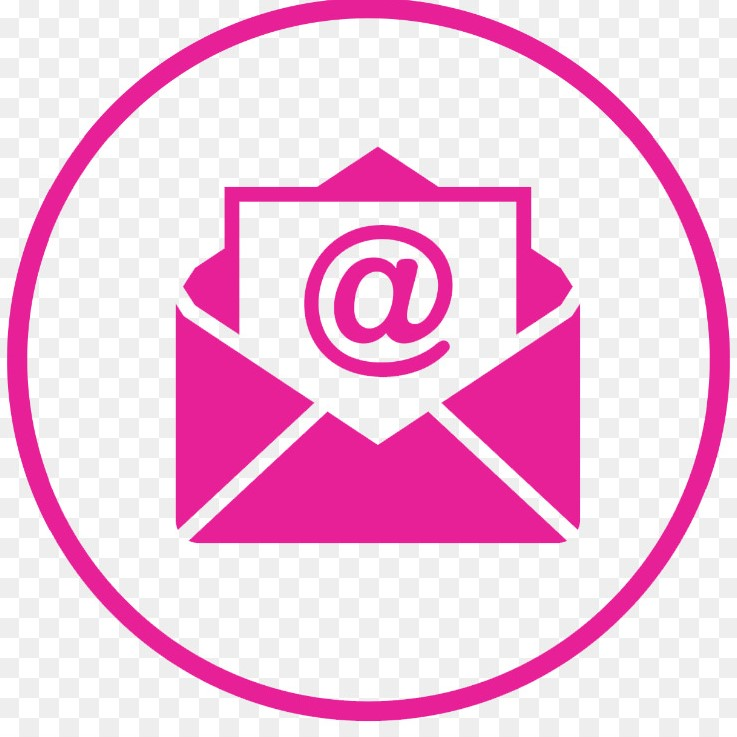
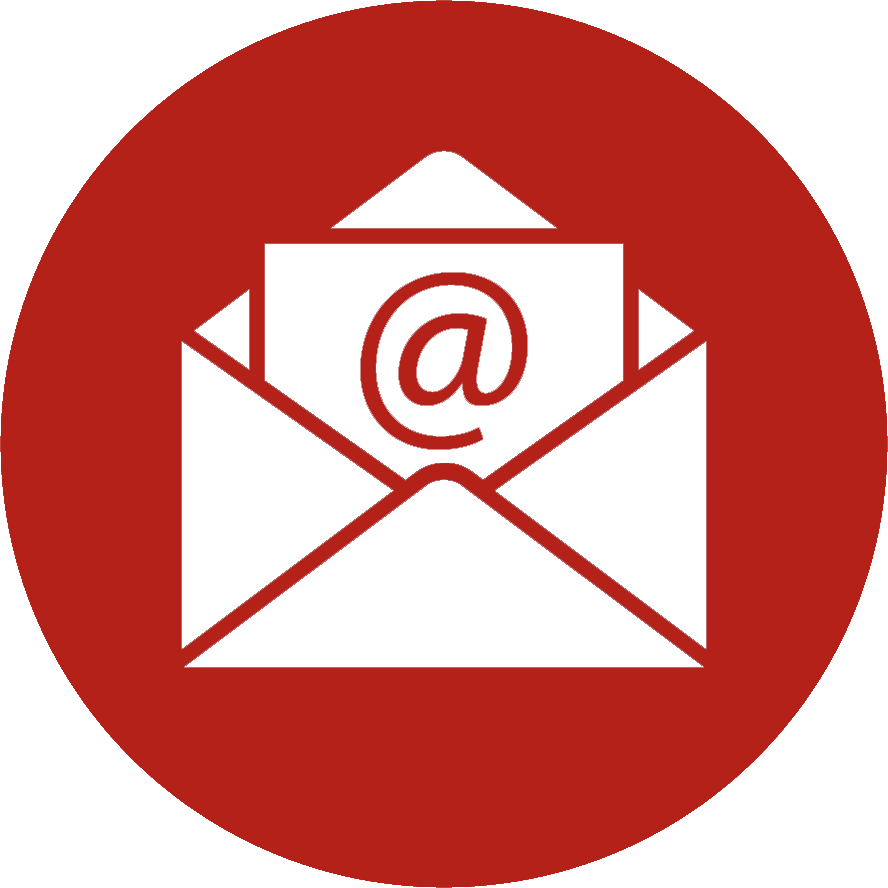
Added email on footer.

diff --git a/index.html b/index.html
@@ -128,10 +128,10 @@
         <img class="icon" src="icons/youtube-icon.png"
       /></a>
       <a
-      href="https://www.youtube.com/channel/UCTXeRSHQzc7JuIWyRg38QoA?view_as=subscriber"
+      href="mailto:refilwe.mashile@yahoo.co.za?subject=Just%20Viewed%20Your%20Website&body=Hi%20Refilwe,"
       target="_blank"
     >
-      <img class="icon" src=""
+      <img class="icon" src="icons/Email_Icon.jpg"
     /></a>
       <p class="text-white text-center mt-5">
         Copyright &copy;
